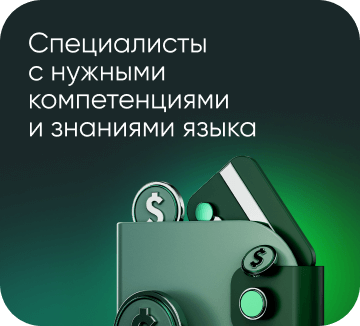
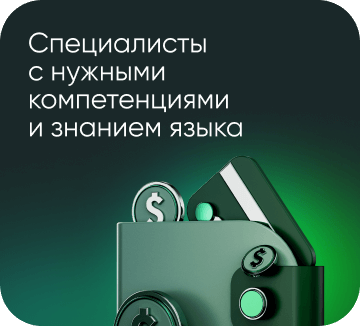
change mik-254

Changed region(s): [[0.3361, 0.3681, 0.7333, 0.4294]]

diff --git a/mik-254/Start in Moscow.html b/mik-254/Start in Moscow.html
@@ -132,12 +132,12 @@
                             <tbody>
                             <tr>
                                 <td align="left" style="font-size:0px;word-break:break-word;padding-bottom:17px;">
-                                    <div style="font-family: Gilroy, Helvetica, Arial, sans-serif;font-size:16px;font-weight:600;line-height:120%;text-align:left;color:#000000;">Ищете профессионалов из-за рубежа?</div>
+                                    <div style="font-family: Gilroy, Helvetica, Arial, sans-serif;font-size:16px;font-weight:600;line-height:120%;text-align:left;color:#000000;">Привлекайте иностранные таланты для&nbsp;развития бизнеса</div>
                                 </td>
                             </tr>
                             <tr>
                                 <td align="left" style="font-size:0px;word-break:break-word;">
-                                    <div style="font-family: Gilroy, Helvetica, Arial, sans-serif;font-size:16px;font-weight:400;line-height:120%;text-align:left;color:#000000;">Start in&nbsp;Moscow – городской HR-сервис, который помогает бизнесу находить и&nbsp;оформлять иностранных специалистов с&nbsp;нужными навыками. Это простой и&nbsp;эффективный способ расширить команду с&nbsp;минимальными затратами и&nbsp;юридическими рисками.</div>
+                                    <div style="font-family: Gilroy, Helvetica, Arial, sans-serif;font-size:16px;font-weight:400;line-height:120%;text-align:left;color:#000000;">Start in&nbsp;Moscow – городской HR-сервис, который помогает привлекать квалифицированные иностранные таланты для&nbsp;решения актуальных задач бизнеса с&nbsp;минимальными затратами и&nbsp;юридическими рисками</div>
                                 </td>
                             </tr>
                             </tbody>
@@ -305,7 +305,7 @@
                                         <tbody>
                                         <tr>
                                             <td style="width:180px;">
-                                                <img alt="Специалисты с нужными компетенциями и знаниями языка" height="auto" src="https://cp.unisender.com/ru/user_file?resource=images&user_id=5608985&name=mik-254-content-img-2_2.png" style="border:0;display:block;outline:none;text-decoration:none;height:auto;width:100%;font-size:13px;" width="180" />
+                                                <img alt="Специалисты с нужными компетенциями и знанием языка" height="auto" src="https://cp.unisender.com/ru/user_file?resource=images&user_id=5608985&name=mik-254-content-img-2_2.png" style="border:0;display:block;outline:none;text-decoration:none;height:auto;width:100%;font-size:13px;" width="180" />
                                             </td>
                                         </tr>
                                         </tbody>
@@ -356,7 +356,7 @@
                                     <table border="0" cellpadding="0" cellspacing="0" role="presentation" style="border-collapse:separate;max-width:380px;width:100%;line-height:100%;">
                                         <tr>
                                             <td align="center" bgcolor="linear-gradient(80deg, #00FB07 34.41%, #00FED9 85.02%, #9FFFF6 103.22%)" role="presentation" style="border:none;border-radius:10px;cursor:auto;height:50px;mso-padding-alt:10px 25px;background:linear-gradient(80deg, #00FB07 34.41%, #00FED9 85.02%, #9FFFF6 103.22%);" valign="middle">
-                                                <a href="https://startin.moscow/" style="display:inline-block;color:#000000;font-family: Gilroy, Helvetica, Arial, sans-serif;font-size:25px;font-weight:600;line-height:120%;margin:0;text-decoration:none;text-transform:none;mso-padding-alt:0px;border-radius:5px;" target="_blank">Отправить запрос на&nbsp;<b>сайте</b></a>
+                                                <a href="https://promo.startin.moscow/landing_form" style="display:inline-block;color:#000000;font-family: Gilroy, Helvetica, Arial, sans-serif;font-size:25px;font-weight:600;line-height:120%;margin:0;text-decoration:none;text-transform:none;mso-padding-alt:0px;border-radius:5px;" target="_blank">Отправить запрос на&nbsp;<b>сайте</b></a>
                                             </td>
                                         </tr>
                                     </table>
